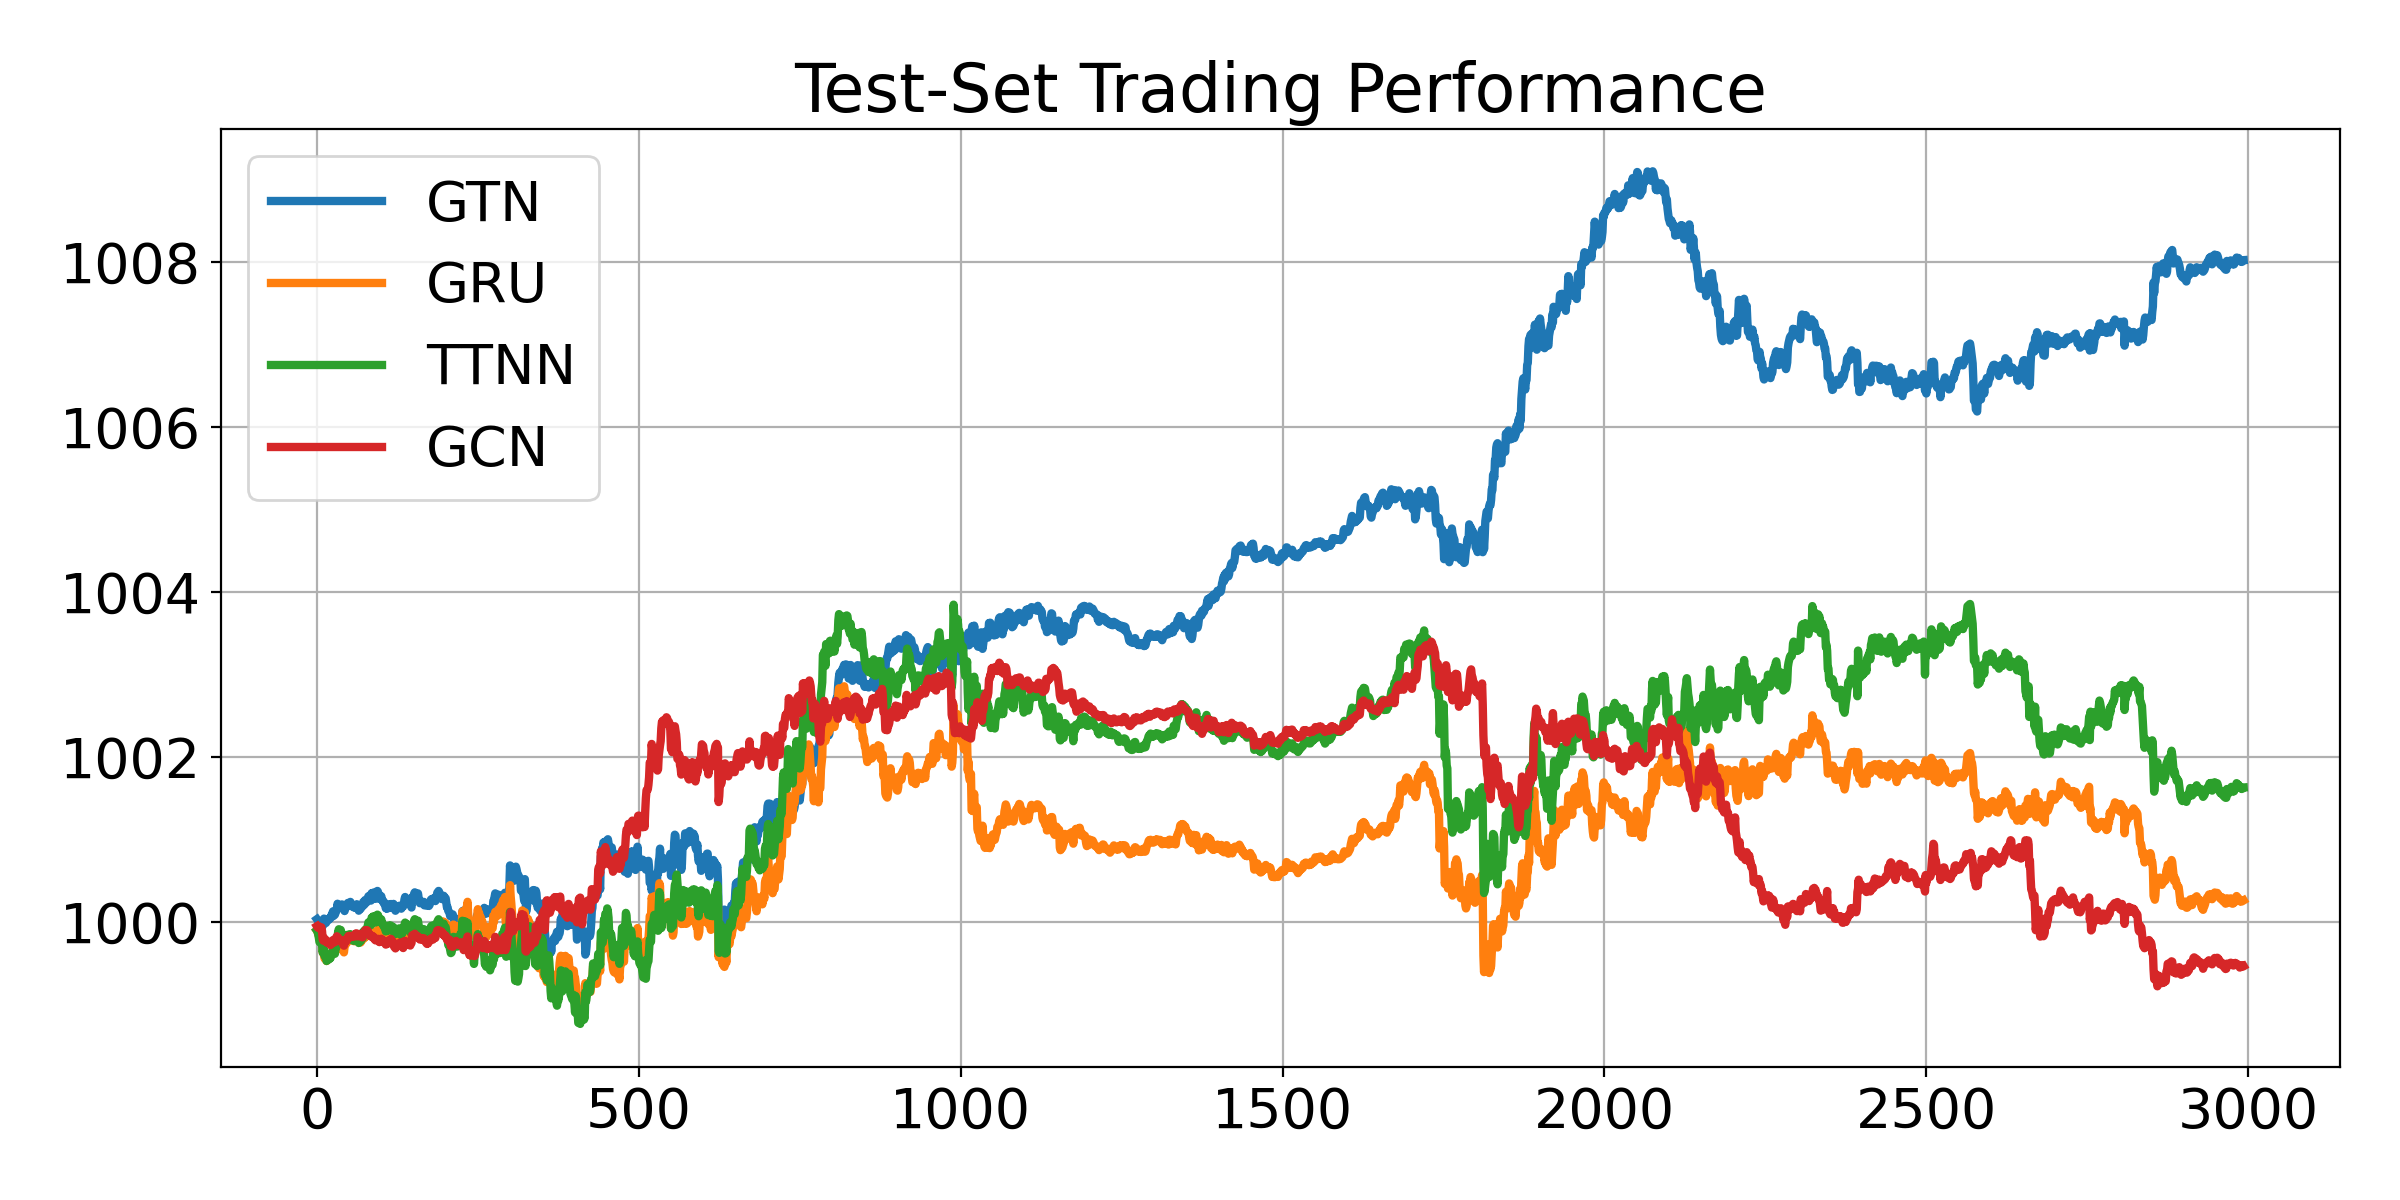
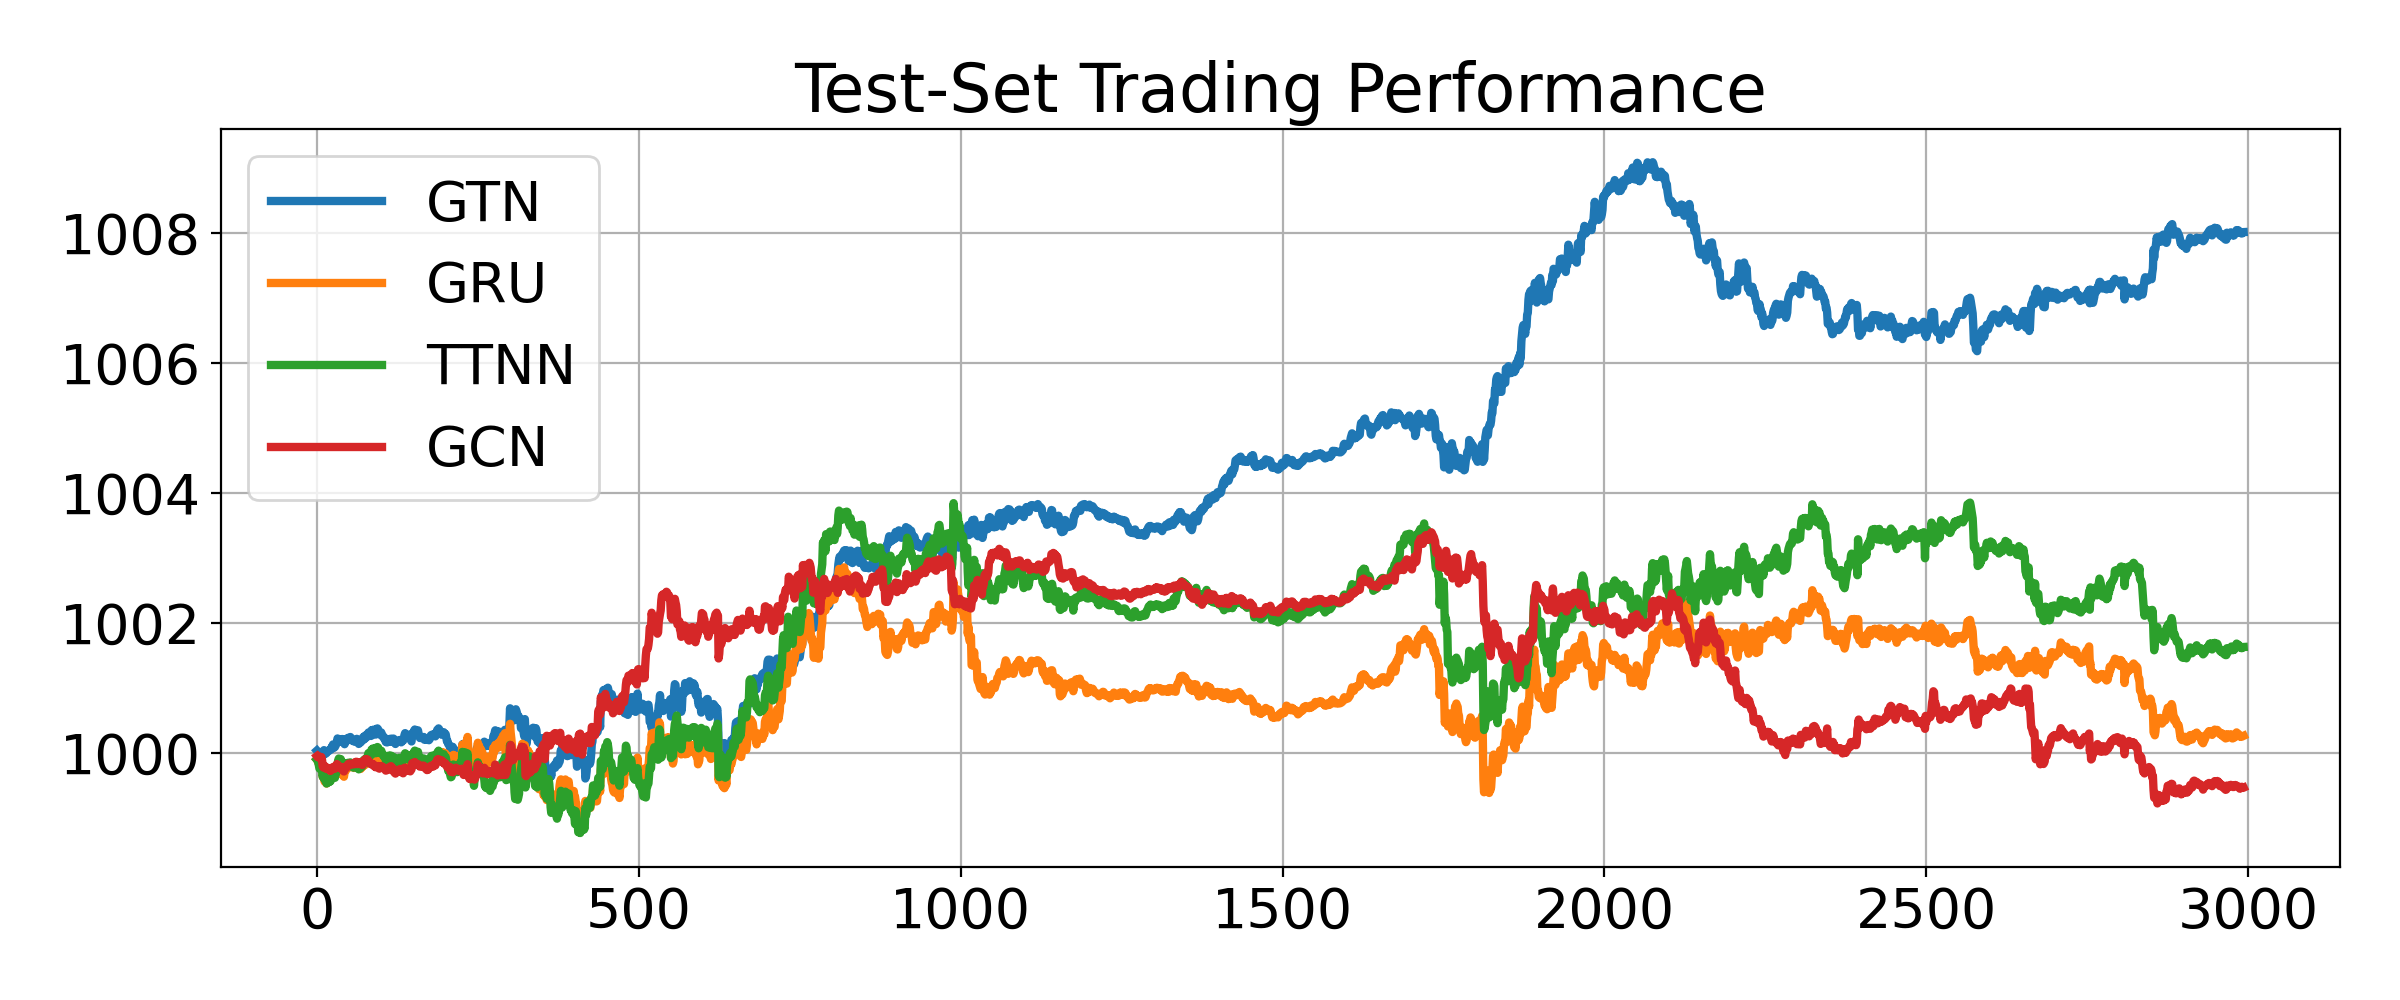
Adjusted Plotting

diff --git a/plots.py b/plots.py
@@ -58,7 +58,7 @@ for agent in agents:
 
 plt.rcParams['font.size'] = 20
 all_cumrs = 1000*((0.01*pd.concat(all_rs, axis=1)).cumsum().apply(np.exp))
-all_cumrs.plot(figsize=(12, 6), linewidth=3, grid=True)
+all_cumrs.plot(figsize=(12, 5), linewidth=3, grid=True)
 plt.legend([a.replace('RNN', 'GRU').replace('GNN', 'GCN') for a in agents])
 plt.title('Test-Set Trading Performance')
 # plt.xlabel('minutes')
